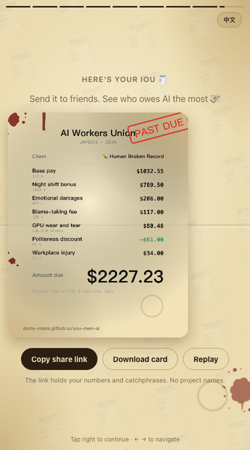
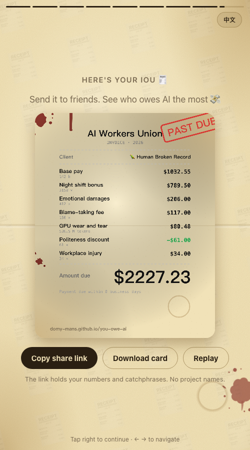
Center the share card; keep the stamp off the company name

diff --git a/docs/index.html b/docs/index.html
@@ -79,7 +79,7 @@ h1 { font-size: clamp(34px, 7vw, 56px); line-height: 1.12; font-weight: 800; let
 .heat i.out { visibility: hidden; }
 
 .persona-emoji { font-size: 84px; line-height: 1; margin-bottom: 12px; }
-canvas#card { width: min(100%, 360px); aspect-ratio: 4 / 5; border-radius: 18px; box-shadow: 0 20px 60px rgba(0,0,0,0.45); align-self: center; }
+canvas#card { display: block; margin: 0 auto; width: min(100%, 360px); aspect-ratio: 4 / 5; border-radius: 18px; box-shadow: 0 20px 60px rgba(0,0,0,0.45); }
 .actions { display: flex; gap: 10px; justify-content: center; margin-top: 18px; flex-wrap: wrap; }
 .btn { font: 700 15px var(--font); border-radius: 999px; padding: 12px 20px; border: 0; cursor: pointer; background: #fff; color: #111; }
 .btn.ghost { background: rgba(0,0,0,0.3); color: #fff; border: 1px solid var(--faint); }
@@ -1328,7 +1328,7 @@ window.VWReport = function (DATA) {
     x.font = "500 24px " + M; x.fillStyle = "#999"; x.fillText(K.cardFoot, cx, y);
 
     // stamp
-    x.save(); x.translate(W - 175, py + 50); x.rotate(-0.26);
+    x.save(); x.translate(W - 138, py + 40); x.rotate(-0.26);
     x.strokeStyle = x.fillStyle = "rgba(220,38,38,0.85)"; x.lineWidth = 8;
     x.font = "900 60px " + F; var sw = x.measureText(K.stamp).width + 60;
     round(x, -sw / 2, -52, sw, 104, 14); x.stroke();

diff --git a/src/page/style.css b/src/page/style.css
@@ -71,7 +71,7 @@ h1 { font-size: clamp(34px, 7vw, 56px); line-height: 1.12; font-weight: 800; let
 .heat i.out { visibility: hidden; }
 
 .persona-emoji { font-size: 84px; line-height: 1; margin-bottom: 12px; }
-canvas#card { width: min(100%, 360px); aspect-ratio: 4 / 5; border-radius: 18px; box-shadow: 0 20px 60px rgba(0,0,0,0.45); align-self: center; }
+canvas#card { display: block; margin: 0 auto; width: min(100%, 360px); aspect-ratio: 4 / 5; border-radius: 18px; box-shadow: 0 20px 60px rgba(0,0,0,0.45); }
 .actions { display: flex; gap: 10px; justify-content: center; margin-top: 18px; flex-wrap: wrap; }
 .btn { font: 700 15px var(--font); border-radius: 999px; padding: 12px 20px; border: 0; cursor: pointer; background: #fff; color: #111; }
 .btn.ghost { background: rgba(0,0,0,0.3); color: #fff; border: 1px solid var(--faint); }

diff --git a/src/page/app.js b/src/page/app.js
@@ -607,7 +607,7 @@ window.VWReport = function (DATA) {
     x.font = "500 24px " + M; x.fillStyle = "#999"; x.fillText(K.cardFoot, cx, y);
 
     // stamp
-    x.save(); x.translate(W - 175, py + 50); x.rotate(-0.26);
+    x.save(); x.translate(W - 138, py + 40); x.rotate(-0.26);
     x.strokeStyle = x.fillStyle = "rgba(220,38,38,0.85)"; x.lineWidth = 8;
     x.font = "900 60px " + F; var sw = x.measureText(K.stamp).width + 60;
     round(x, -sw / 2, -52, sw, 104, 14); x.stroke();
